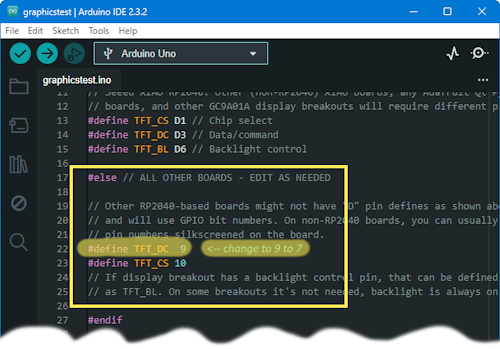
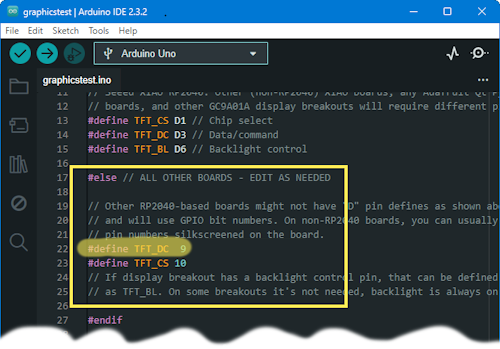
Edit "How to use a round GC9A01 TFT display" page
Corrected spelling & grammar errors
Clarified some content

Corrected error in an image of Arduino IDE

Changed region(s): [[0.39, 0.6877, 0.63, 0.745]]

diff --git a/resources/round-tft-gc9a01-display.html b/resources/round-tft-gc9a01-display.html
@@ -11,7 +11,7 @@ title: "How to use a round GC9A01 TFT display"
     <p><img class="img-fluid mx-auto d-block" src="/assets/img/resources/round-tft-front+back_510x309.png" width="510"
         height="309" alt="Picture of front and rear of round TFT display"></p>
 
-    <p>All that remained to do was to figure out how to drive it using an Arduino MCU. This job was made much simply thanks to the marvellous <a href="https://dronebotworkshop.com/gc9a01/">DroneBot Workshop article</a> about how to use a similar display.</p>
+    <p>Now all I needed to do was to figure out how to drive it using an Arduino MCU. This job was made much simpler thanks to a marvellous <a href="https://dronebotworkshop.com/gc9a01/">DroneBot Workshop article</a> that described how to use a similar display.</p>
 
 </section>
 
@@ -19,7 +19,7 @@ title: "How to use a round GC9A01 TFT display"
 
     <h2>Pinout</h2>
 
-    <p>The display uses the SPI protocol - don't let the presence of SDA and SCL pins make you think it's I²C!. From left to right the pins have the following meaning:</p>
+    <p>The display uses the SPI protocol (don't let the presence of SDA and SCL pins make you think it's I²C!). From left to right the pins have the following meaning:</p>
 
     <table class="table table-responsive">
         <thead class="thead-light text-left">
@@ -60,7 +60,7 @@ title: "How to use a round GC9A01 TFT display"
         </tbody>
     </table>
 
-    <p>Note that there is no SPI Controller In, Peripheral Out (CIPO aka MISO) pin since the SPI traffic is all from the controller to the display peripheral. There also additional control pins: RST &amp; DC.</p>
+    <p>Note that there is no SPI Controller In, Peripheral Out (CIPO aka MISO) pin since the SPI traffic is all from the controller to the display. In addition to the SPI connections there are also two control pins: RST &amp; DC.</p>
 
 </section>
 
@@ -73,6 +73,8 @@ title: "How to use a round GC9A01 TFT display"
     <p><img class="img-fluid mx-auto d-block" src="/assets/img/resources/round-tft-uno-test-circuit_960x665.png" width="960"
         height="665" alt="Round TFT display test circuit with Arduino Uno"></p>
 
+    <p>The Uno is powered via its USB connection. An external 3.3V power source is provided for the display. It might be possible to power the display from the Uno's 3.3V output, but I prefer not to use the Uno to supply power.</p>
+
     <p>Because the Uno is 5V and the display is 3.3V, a logic level converter is required to convert the Uno's 5V signals to 3.3V for the display. Here a <a href="https://www.ti.com/lit/ds/symlink/txs0108e.pdf?ts=1712993089777">TXS0108E</a> 8 channel logic level converter is used. The &quot;A&quot; side <strong>must</strong> be used as the 3.3V side and the &quot;B&quot; side <strong>must</strong> be used as the 5V side.</p>
 
     <p>Here is a picture of the circuit as built and operating:</p>
@@ -84,9 +86,11 @@ title: "How to use a round GC9A01 TFT display"
 
 <section id="source-code">
 
-    <p>The Arduino IDE was used to compile and upload the code need to test the display.</p>
+    <h2>Source Code</h2>
 
-    <p>Here I simply copied the code used in the <a href="https://dronebotworkshop.com/gc9a01/">DroneBot Workshop article</a> mentioned above. There are six steps:</p>
+    <p>The demostration code was compiled and uploaded using the Arduino IDE v2.</p>
+
+    <p>The code is a slightly modified copy of that provided with the Adafruit GC9A01A library. This idea came from the <a href="https://dronebotworkshop.com/gc9a01/">DroneBot Workshop article</a> mentioned above. There are six steps to get the code running:</p>
 
     <ol>
         <li>
@@ -99,20 +103,20 @@ title: "How to use a round GC9A01 TFT display"
         </li>
         <li>
             <p>Look just below the line:</p>
-            <pre class="well">#else // ALL OTHER BOARDS - EDIT AS NEEDED</pre>
+            <pre class="outlined"><code class="language-c">#else // ALL OTHER BOARDS - EDIT AS NEEDED</code></pre>
             <p>to locate the line:</p>
-            <pre class="well">#define TFT_DC  7</pre>
+            <pre class="outlined"><code class="language-c">#define TFT_DC  7</code></pre>
             <p>and change this line to:</p>
-            <pre class="well">#define TFT_DC  9</pre>
+            <pre class="outlined"><code class="language-c">#define TFT_DC  9</code></pre>
             <p><img class="img-fluid mx-auto d-block" src="/assets/img/resources/round-tft-uno-arduino-ide_500x349.png" width="500"
                 height="349" alt="Round TFT display Arduino IDE source code changes"></p>
-            <p>This is needed because the display's <em>DC</em> pin is attached to the Uno's pin <em>9</em>, whereas the sketch assumes pin <em>9</em>.</p>
+            <p>This is needed because the display's <em>DC</em> pin is attached to the Uno's pin <em>9</em>, whereas the sketch assumes pin <em>7</em>.</p>
         </li>
         <li>
             <p>Turn on the 3.3V power supply.</p>
         </li>
         <li>
-            <p>Connect the Uno to a USB on the computer.</p>
+            <p>Connect the Uno to a USB port on the computer that is running the Arduino IDE.</p>
         </li>
         <li>
             <p>Compile and upload the sketch to Uno.</p>
